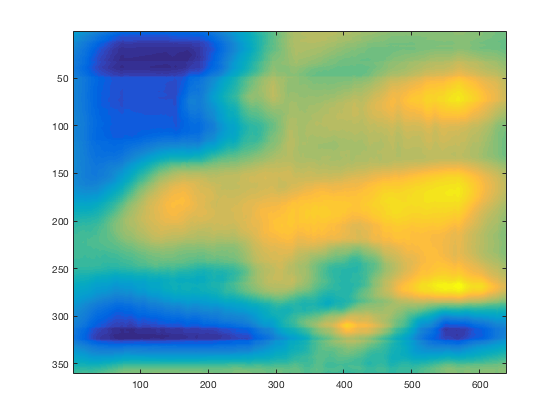
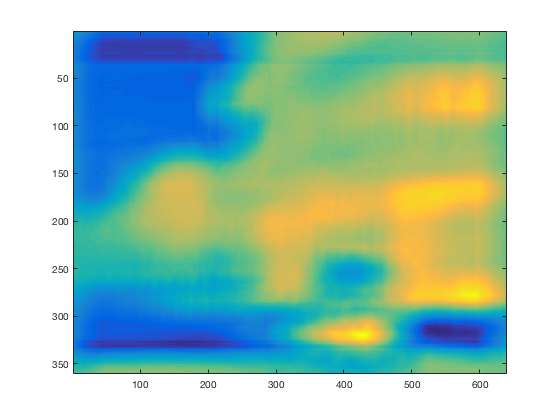
Eric finished problem 4

diff --git a/constructHeatMap.m b/constructHeatMap.m
@@ -1,4 +1,6 @@
 function [ heat_map ] = constructHeatMap( input_img, filter_img )
+    filter_img = flip(filter_img, 1);
+    filter_img = flip(filter_img, 2);
     heat_map = conv2(input_img, filter_img, 'same');
     figure;
     imagesc(heat_map);
